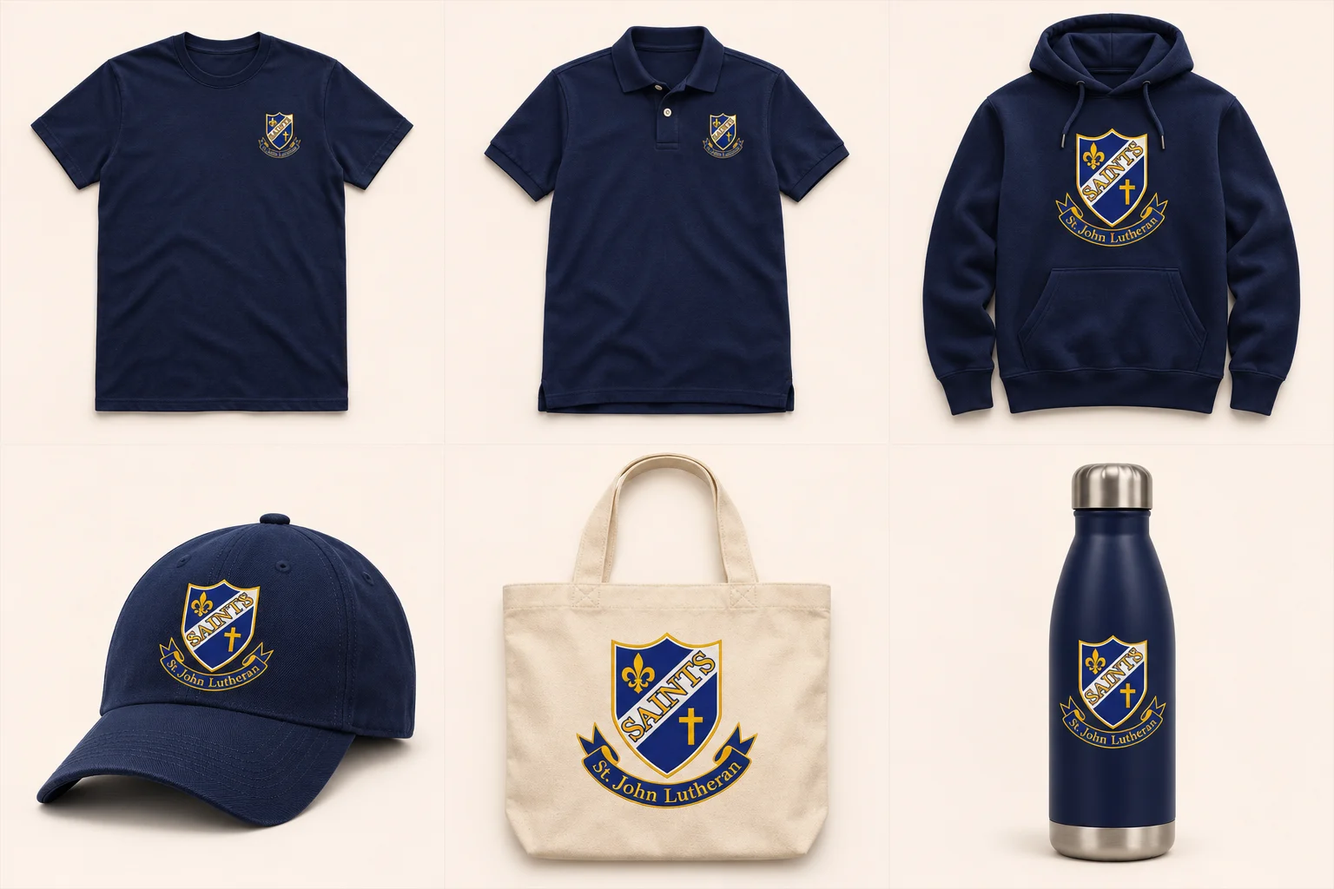
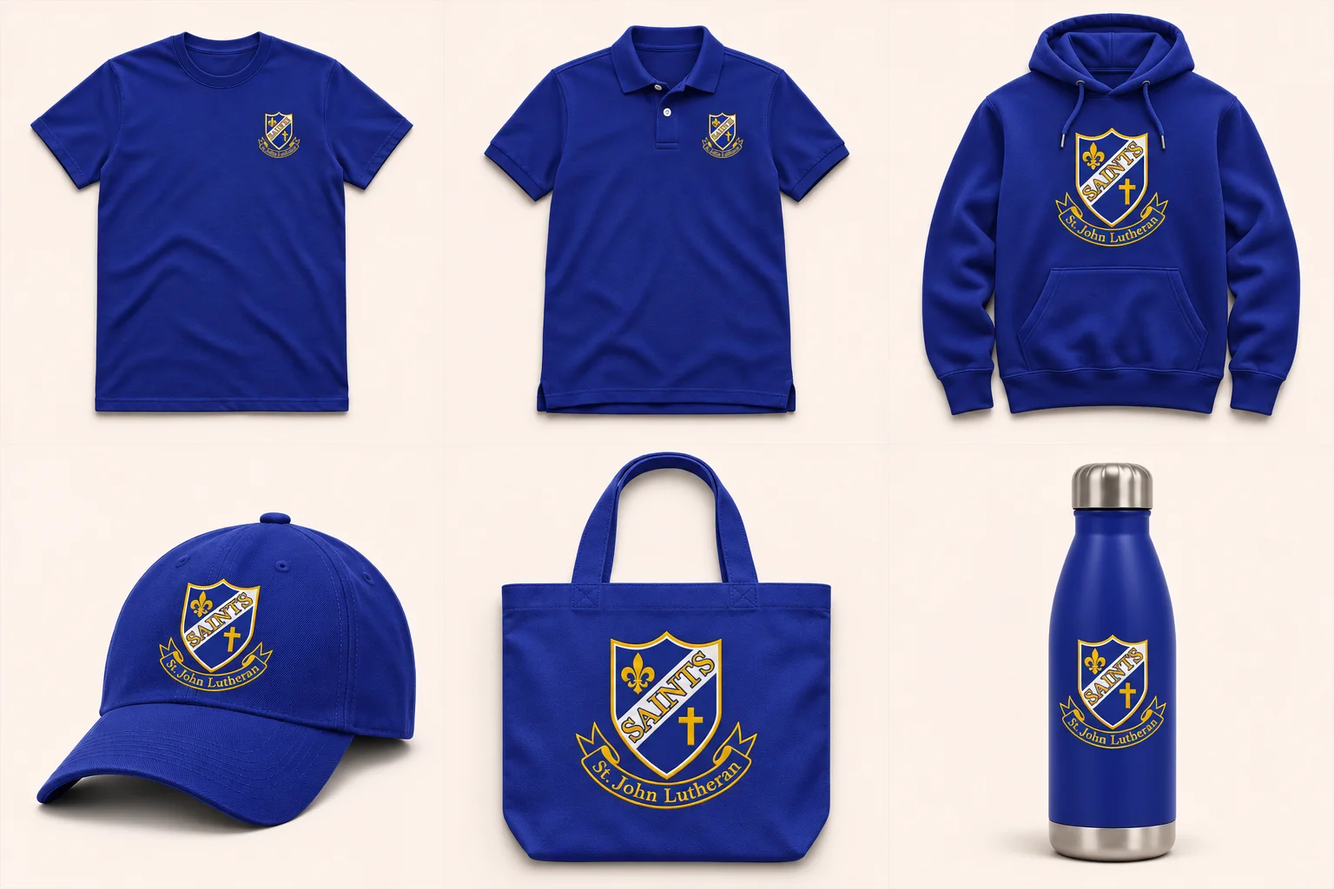
Correct royal school palette and senior design contest direction

diff --git a/app/store/store.module.css b/app/store/store.module.css
@@ -1,11 +1,13 @@
-.page{padding:15px 0 40px;color:#1c304e}.masthead{display:flex;align-items:center;justify-content:space-between;padding:12px 0 25px;gap:14px}.masthead>div{display:flex;align-items:center;gap:13px}.masthead img{height:49px;width:49px;object-fit:contain}.masthead>div>span{font-size:15px;letter-spacing:1.8px;font-weight:650}.masthead small{display:block;font-size:9px;letter-spacing:1.1px;color:#748094;margin-top:5px}.masthead>a{min-height:44px;display:flex;align-items:center;gap:8px;color:#203c68;text-decoration:none;font-size:13px}.masthead>a span{background:#e8edf4;display:grid;place-items:center;min-width:25px;height:25px;border-radius:50%;font-size:11px}
-.hero{display:grid;grid-template-columns:.85fr 1.25fr;background:#f4eee4;min-height:370px;overflow:hidden}.heroCopy{padding:47px 36px 34px;display:flex;align-items:flex-start;flex-direction:column;justify-content:center}.eyebrow{font-size:9px;letter-spacing:1.7px;font-weight:600;color:#876b30;display:block;margin:0 0 15px}.hero h1{font-family:var(--font-school)!important;font-size:45px!important;font-weight:500!important;line-height:1.08;letter-spacing:-1.7px;color:#19395d!important;margin:0 0 19px!important}.heroCopy p{font-size:14px;line-height:1.75;color:#657080;margin:0 0 24px}.heroCopy button{background:#1f3d67;border:1px solid #1f3d67;color:white;min-height:47px;padding:12px 20px;font:inherit;font-size:13px;font-weight:500;cursor:pointer}.badge{font-size:10px;color:#737a83;margin-top:15px}.heroImage{min-width:0;position:relative}.heroImage>img{position:absolute;width:100%;height:100%;object-fit:cover;object-position:58% center}.heroImage>span{position:absolute;bottom:20px;right:20px;font-size:9px;letter-spacing:2px;color:white;text-shadow:0 1px 5px #172437;background:#17243755;padding:8px}.notice{font-size:11px;line-height:1.7;color:#78818d;margin:13px 0 35px;max-width:800px}
+.page{padding:15px 0 40px;color:#1c304e}.masthead{display:flex;align-items:center;justify-content:space-between;padding:12px 0 25px;gap:14px}.masthead>div{display:flex;align-items:center;gap:13px}.masthead img{height:49px;width:49px;object-fit:contain}.masthead>div>span{font-size:15px;letter-spacing:1.8px;font-weight:650}.masthead small{display:block;font-size:9px;letter-spacing:1.1px;color:#748094;margin-top:5px}.masthead>a{min-height:44px;display:flex;align-items:center;gap:8px;color:#2a3695;text-decoration:none;font-size:13px}.masthead>a span{background:#e8edf4;display:grid;place-items:center;min-width:25px;height:25px;border-radius:50%;font-size:11px}
+.hero{display:grid;grid-template-columns:.85fr 1.25fr;background:#f4eee4;min-height:370px;overflow:hidden}.heroCopy{padding:47px 36px 34px;display:flex;align-items:flex-start;flex-direction:column;justify-content:center}.eyebrow{font-size:9px;letter-spacing:1.7px;font-weight:600;color:#876b30;display:block;margin:0 0 15px}.hero h1{font-family:var(--font-school)!important;font-size:45px!important;font-weight:500!important;line-height:1.08;letter-spacing:-1.7px;color:#2a3695!important;margin:0 0 19px!important}.heroCopy p{font-size:14px;line-height:1.75;color:#657080;margin:0 0 24px}.heroCopy button{background:#2a3695;border:1px solid #2a3695;color:white;min-height:47px;padding:12px 20px;font:inherit;font-size:13px;font-weight:500;cursor:pointer}.badge{font-size:10px;color:#737a83;margin-top:15px}.heroImage{min-width:0;position:relative}.heroImage>img{position:absolute;width:100%;height:100%;object-fit:cover;object-position:58% center}.heroImage>span{position:absolute;bottom:20px;right:20px;font-size:9px;letter-spacing:2px;color:white;text-shadow:0 1px 5px #172437;background:#17243755;padding:8px}.notice{font-size:11px;line-height:1.7;color:#78818d;margin:13px 0 35px;max-width:800px}
 .collectionLinks{display:grid;grid-template-columns:repeat(3,minmax(0,1fr));gap:19px;margin:0 0 49px}.collectionLinks>button{display:grid;grid-template-columns:84px minmax(0,1fr);padding:0;border:0;border-bottom:1px solid #dbe0e5;background:transparent;text-align:left;gap:14px;align-items:center;cursor:pointer;padding-bottom:17px;color:#223b5d}.collectionImage{width:84px;height:91px;overflow:hidden;border-radius:2px}.collectionImage figure{width:91px!important}.collectionImage figcaption{display:none}.collectionLinks>button>span{display:flex;flex-direction:column;gap:6px}.collectionLinks small{font-size:9px;text-transform:uppercase;letter-spacing:1px;color:#8b713d}.collectionLinks strong{font-size:14px;font-weight:600;line-height:1.35}.collectionLinks>button>span>span{font-size:11px;line-height:1.5;color:#778393}.collectionSection{scroll-margin-top:20px}.sectionHeading{display:flex;align-items:flex-end;justify-content:space-between;gap:15px;margin:0 0 23px}.sectionHeading h2{font-size:28px!important;font-weight:500!important;letter-spacing:-.7px;margin:0;color:#203b60}.sectionHeading .eyebrow{margin-bottom:10px}.sectionHeading>span{font-size:12px;color:#78869a;padding-bottom:4px}
-.toolbar{display:flex;align-items:center;justify-content:space-between;gap:20px;margin-bottom:23px}.categories{display:flex;gap:22px;flex-wrap:wrap}.categories button{min-height:44px;border:0;border-bottom:2px solid transparent;background:transparent;padding:10px 0;color:#738096;font-size:13px;cursor:pointer}.categories button[aria-pressed=true]{color:#1f3b63;border-bottom-color:#1f3b63;font-weight:600}.search{display:flex;flex-direction:column;gap:4px;max-width:240px;width:100%}.search>span{position:absolute;clip:rect(0,0,0,0);width:1px;height:1px;overflow:hidden}.search input{min-height:44px;width:100%;border:1px solid #d7dfe9;border-radius:2px;padding:10px 12px;font:inherit;font-size:12px;background:white;color:#203b60}.grid{display:grid;grid-template-columns:repeat(3,minmax(0,1fr));gap:31px 20px}.product{min-width:0}.productOpen{display:block;text-align:left;width:100%;background:transparent;border:0;padding:0;cursor:pointer;color:inherit}.art{aspect-ratio:1;background:#f8f2eb;overflow:hidden}.art figure{transition:transform .25s}.productOpen:hover .art figure{transform:scale(1.035)}.productInfo{padding:17px 0 0;position:relative}.collection{font-size:9px;letter-spacing:1.3px;text-transform:uppercase;color:#8e7544}.productInfo h3{font-size:17px!important;font-weight:500!important;line-height:1.4;color:#203c61!important;margin:7px 0 6px!important;letter-spacing:-.25px}.variantCount{font-size:12px;color:#7e8997;display:block}.view{display:inline-block;color:#203c68;font-size:12px;border-bottom:1px solid #c4cdd9;margin-top:14px;padding-bottom:4px}
-.favorites{margin:48px 0 0;padding:28px 30px;background:#eef2f7;display:grid;grid-template-columns:1fr 1.4fr;gap:35px;scroll-margin-top:20px}.favorites h2{font-size:23px!important;font-weight:500!important;margin:0 0 9px;color:#203b60}.favorites h2 span{font-size:17px;color:#7a8799}.favorites p{font-size:12px;line-height:1.65;color:#6f7d91;margin:0}.favorites .eyebrow{margin-bottom:10px}.emptyFavorites{padding:18px 0}.shortlistItem{padding:12px 0;border-bottom:1px solid #d8e1eb;display:grid;grid-template-columns:1fr auto;gap:5px}.shortlistItem strong{font-size:13px;font-weight:500}.shortlistItem>span{grid-column:1;font-size:11px;color:#748298}.shortlistItem button{grid-column:2;grid-row:1/3;background:transparent;border:0;text-decoration:underline;color:#4e6383;min-height:44px;font-size:12px;cursor:pointer}.uniform{display:flex;align-items:center;justify-content:space-between;gap:20px;padding:28px 0;border-bottom:1px solid #dce2e9}.uniform h2{font-size:17px!important;font-weight:500!important;margin:0 0 7px;color:#29415f}.uniform p{font-size:12px;color:#778496;margin:0}.uniform a{min-height:44px;display:inline-flex;align-items:center;font-size:12px;color:#2b4670}.empty{grid-column:1/-1;padding:30px;border:1px dashed #b8c5d7}.empty h2{font-size:20px}.empty button{min-height:44px;border:0;background:#203c68;color:white;padding:10px 18px;cursor:pointer}.page button:focus-visible,.page a:focus-visible,.page input:focus-visible{outline:3px solid #a88643;outline-offset:4px}
+.toolbar{display:flex;align-items:center;justify-content:space-between;gap:20px;margin-bottom:23px}.categories{display:flex;gap:22px;flex-wrap:wrap}.categories button{min-height:44px;border:0;border-bottom:2px solid transparent;background:transparent;padding:10px 0;color:#738096;font-size:13px;cursor:pointer}.categories button[aria-pressed=true]{color:#2a3695;border-bottom-color:#2a3695;font-weight:600}.search{display:flex;flex-direction:column;gap:4px;max-width:240px;width:100%}.search>span{position:absolute;clip:rect(0,0,0,0);width:1px;height:1px;overflow:hidden}.search input{min-height:44px;width:100%;border:1px solid #d7dfe9;border-radius:2px;padding:10px 12px;font:inherit;font-size:12px;background:white;color:#203b60}.grid{display:grid;grid-template-columns:repeat(3,minmax(0,1fr));gap:31px 20px}.product{min-width:0}.productOpen{display:block;text-align:left;width:100%;background:transparent;border:0;padding:0;cursor:pointer;color:inherit}.art{aspect-ratio:1;background:#f8f2eb;overflow:hidden}.art figure{transition:transform .25s}.productOpen:hover .art figure{transform:scale(1.035)}.productInfo{padding:17px 0 0;position:relative}.collection{font-size:9px;letter-spacing:1.3px;text-transform:uppercase;color:#8e7544}.productInfo h3{font-size:17px!important;font-weight:500!important;line-height:1.4;color:#203c61!important;margin:7px 0 6px!important;letter-spacing:-.25px}.variantCount{font-size:12px;color:#7e8997;display:block}.view{display:inline-block;color:#2a3695;font-size:12px;border-bottom:1px solid #c4cdd9;margin-top:14px;padding-bottom:4px}
+.favorites{margin:48px 0 0;padding:28px 30px;background:#eef2f7;display:grid;grid-template-columns:1fr 1.4fr;gap:35px;scroll-margin-top:20px}.favorites h2{font-size:23px!important;font-weight:500!important;margin:0 0 9px;color:#203b60}.favorites h2 span{font-size:17px;color:#7a8799}.favorites p{font-size:12px;line-height:1.65;color:#6f7d91;margin:0}.favorites .eyebrow{margin-bottom:10px}.emptyFavorites{padding:18px 0}.shortlistItem{padding:12px 0;border-bottom:1px solid #d8e1eb;display:grid;grid-template-columns:1fr auto;gap:5px}.shortlistItem strong{font-size:13px;font-weight:500}.shortlistItem>span{grid-column:1;font-size:11px;color:#748298}.shortlistItem button{grid-column:2;grid-row:1/3;background:transparent;border:0;text-decoration:underline;color:#4e6383;min-height:44px;font-size:12px;cursor:pointer}.uniform{display:flex;align-items:center;justify-content:space-between;gap:20px;padding:28px 0;border-bottom:1px solid #dce2e9}.uniform h2{font-size:17px!important;font-weight:500!important;margin:0 0 7px;color:#29415f}.uniform p{font-size:12px;color:#778496;margin:0}.uniform a{min-height:44px;display:inline-flex;align-items:center;font-size:12px;color:#2b4670}.empty{grid-column:1/-1;padding:30px;border:1px dashed #b8c5d7}.empty h2{font-size:20px}.empty button{min-height:44px;border:0;background:#2a3695;color:white;padding:10px 18px;cursor:pointer}.page button:focus-visible,.page a:focus-visible,.page input:focus-visible{outline:3px solid #a88643;outline-offset:4px}
 @media(max-width:1000px){.heroCopy{padding:35px 25px}.hero h1{font-size:37px!important}.collectionLinks{gap:15px}.collectionLinks>button{grid-template-columns:65px 1fr;gap:10px}.collectionImage{width:65px;height:78px}.collectionImage figure{width:78px!important}.collectionLinks strong{font-size:13px}}
 @media(max-width:650px){.page{padding-top:8px}.masthead{padding-bottom:19px}.masthead img{width:38px;height:38px}.masthead>div{gap:9px}.masthead>div>span{font-size:12px;letter-spacing:1.3px}.masthead small{font-size:8px;letter-spacing:.6px}.masthead>a{font-size:11px}.hero{display:flex;flex-direction:column-reverse;min-height:0}.heroImage{height:auto;aspect-ratio:1.5}.heroImage>img{position:relative;height:100%;display:block;object-position:center}.heroImage>span{display:none}.heroCopy{padding:27px 25px 29px}.hero h1{font-size:37px!important;letter-spacing:-1.2px}.hero h1 br{display:none}.heroCopy p{font-size:13px;line-height:1.6;margin-bottom:19px}.heroCopy p br{display:none}.heroCopy .eyebrow{margin-bottom:12px}.heroCopy button{width:100%}.badge{align-self:center}.notice{font-size:11px;margin:13px 0 27px}.collectionLinks{gap:13px;margin-bottom:34px;grid-template-columns:1fr}.collectionLinks>button{grid-template-columns:64px 1fr;padding-bottom:12px}.collectionImage{height:65px}.collectionImage figure{width:65px!important}.collectionLinks strong{font-size:15px}.collectionLinks>button>span{gap:4px}.collectionLinks>button>span>span{font-size:12px}.sectionHeading h2{font-size:24px!important}.sectionHeading>span{font-size:11px;white-space:nowrap}.toolbar{flex-direction:column-reverse;gap:12px;align-items:stretch}.search{max-width:none}.categories{gap:0;justify-content:space-between}.categories button{font-size:12px}.grid{grid-template-columns:repeat(2,minmax(0,1fr));gap:25px 13px}.productInfo{padding-top:12px}.productInfo h3{font-size:15px!important;line-height:1.4}.collection{font-size:8px}.variantCount{font-size:11px;line-height:1.5}.view{font-size:12px}.favorites{margin-top:32px;padding:23px;grid-template-columns:1fr;gap:13px}.favorites h2{font-size:22px!important}.uniform{align-items:flex-start;flex-direction:column;gap:9px;padding:24px 0}.uniform h2{font-size:16px!important}.uniform p{line-height:1.6}}
 @media(prefers-reduced-motion:reduce){.art figure{transition:none}.productOpen:hover .art figure{transform:none}}
 /* Collection filters wrap cleanly when a special collection is present. */
 .categories{flex-wrap:wrap}
 @media(max-width:650px){.categories{justify-content:flex-start;gap:0 14px}.categories button{min-height:44px}}
+
+.contest{display:grid;grid-template-columns:1fr 1fr;gap:28px;border-left:4px solid #edbc0d;background:#fff;padding:28px;margin:0 0 38px}.contest h2{font-size:26px!important;color:#2a3695!important;margin:0 0 8px}.contest p{font-size:15px;line-height:1.7;margin:0 0 8px}.contest span:not(.eyebrow){font-size:12px;color:#6f7d91}@media(max-width:650px){.contest{grid-template-columns:1fr;gap:10px;padding:22px}.contest h2{font-size:23px!important}}

diff --git a/app/store/store.tsx b/app/store/store.tsx
@@ -14,10 +14,11 @@ export default function Store(){
  <div className={styles.masthead}><div><img src="/stjohn-logo.png" alt="St. John Lutheran Saints"/><span>THE SAINTS STORE<small>ST. JOHN LUTHERAN · OCALA</small></span></div><a href="#favorites">Favorites <span>{saved.length}</span></a></div>
  <header className={styles.hero}><div className={styles.heroCopy}><span className={styles.eyebrow}>BLUE. GOLD. TOGETHER.</span><h1>A little more{' '}<br/>Saints spirit.</h1><p>For the school days, the sidelines,{' '}<br/>and everything in between.</p><button onClick={()=>browse('All')}>Explore the collection</button><span className={styles.badge}>An original collection preview</span></div><div className={styles.heroImage}><img src="/store/saints-editorial.webp" alt="Concept mockup of St. John Saints hoodie, tee, cap and tote"/><span>THE ST. JOHN COLLECTION</span></div></header>
  <p className={styles.notice}>Core Saints and team-gear concepts for year-round school spirit. Not available to order or approved as school uniforms. Images are illustrative mockups.</p>
- <section className={styles.collectionLinks} aria-label="Browse collections">{[{name:'Everyday',kind:'tee',text:'The everyday essentials',sub:'School spirit, simply done.'},{name:'Sideline',kind:'hoodie',text:'Meet you on the sidelines',sub:'Bring your Saints pride.'},{name:'Accessories',kind:'tote',text:'Take a little St. John along',sub:'For wherever the day takes you.'}].map(c=><button key={c.name} onClick={()=>browse(c.name)}><div className={styles.collectionImage}><ProductArt category={c.kind} name={c.text} color="#152d50"/></div><span><small>{c.name}</small><strong>{c.text}</strong><span>{c.sub}</span></span></button>)}</section>
- <section id="collection" className={styles.collectionSection}><div className={styles.sectionHeading}><div><span className={styles.eyebrow}>MADE FOR OUR COMMUNITY</span><h2>Find your Saints style.</h2></div><span>{items.length} designs</span></div>
+ <section className={styles.collectionLinks} aria-label="Browse collections">{[{name:'Everyday',kind:'tee',text:'The everyday essentials',sub:'School spirit, simply done.'},{name:'Sideline',kind:'hoodie',text:'Meet you on the sidelines',sub:'Bring your Saints pride.'},{name:'Accessories',kind:'tote',text:'Take a little St. John along',sub:'For wherever the day takes you.'}].map(c=><button key={c.name} onClick={()=>browse(c.name)}><div className={styles.collectionImage}><ProductArt category={c.kind} name={c.text} color="#2a3695"/></div><span><small>{c.name}</small><strong>{c.text}</strong><span>{c.sub}</span></span></button>)}</section>
+ <section className={styles.contest} aria-labelledby="senior-contest-title"><div><span className={styles.eyebrow}>COMING SOON</span><h2 id="senior-contest-title">Senior Design Contest</h2><p>Your class. Your design.</p></div><div><p>Open to all seniors, not just athletes. The winning design will be selected later for a special collection.</p><span>Entry details and selection dates to come.</span></div></section>
+ <section id="collection" className={styles.collectionSection}><div className={styles.sectionHeading}><div><span className={styles.eyebrow}>MADE FOR OUR COMMUNITY</span><h2>Find your Saints style.</h2></div><span>{items.length} {items.length===1?'design':'designs'}</span></div>
  <div className={styles.toolbar}><div className={styles.categories} role="group" aria-label="Store collection">{collections.map(c=><button key={c} type="button" aria-pressed={collection===c} onClick={()=>setCollection(c)}>{c}</button>)}</div><label className={styles.search}><span>Find an item</span><input type="search" value={query} onChange={e=>setQuery(e.target.value)} placeholder="Search the collection"/></label></div>
- <div className={styles.grid}>{items.map(p=><article key={p.id} className={styles.product}><button className={styles.productOpen} onClick={()=>setActive(p)} aria-label={`View ${p.name}`}><div className={styles.art}><ProductArt category={p.kind} color="#152d50" name={p.name}/></div><div className={styles.productInfo}><span className={styles.collection}>{p.collection}</span><h3>{p.name}</h3><span className={styles.variantCount}>{p.colors.length} colors · {p.sizes.length===1?'One size':'Youth & adult sizes'.replace('Youth & adult',p.sizes.some(s=>s.startsWith('Youth'))?'Youth & adult':'Adult')}</span><span className={styles.view}>View design</span></div></button></article>)}{!items.length&&<div className={styles.empty}><h2>No matching items</h2><button onClick={()=>{setQuery('');setCollection('All')}}>Show all items</button></div>}</div></section>
+ <div className={styles.grid}>{items.map(p=><article key={p.id} className={styles.product}><button className={styles.productOpen} onClick={()=>setActive(p)} aria-label={`View ${p.name}`}><div className={styles.art}><ProductArt category={p.kind} color="#2a3695" name={p.name}/></div><div className={styles.productInfo}><span className={styles.collection}>{p.collection}</span><h3>{p.name}</h3><span className={styles.variantCount}>{p.colors.length} {p.colors.length===1?'color':'colors'} · {p.sizes.length===1?'One size':'Youth & adult sizes'.replace('Youth & adult',p.sizes.some(s=>s.startsWith('Youth'))?'Youth & adult':'Adult')}</span><span className={styles.view}>View design</span></div></button></article>)}{!items.length&&<div className={styles.empty}><h2>No matching items</h2><button onClick={()=>{setQuery('');setCollection('All')}}>Show all items</button></div>}</div></section>
  <section id="favorites" className={styles.favorites}><div><span className={styles.eyebrow}>YOUR COLLECTION</span><h2>Favorites <span aria-live="polite">({saved.length})</span></h2><p>Saved for this visit. Nothing is ordered or submitted.</p></div><div>{saved.length?saved.map((s,i)=><div className={styles.shortlistItem} key={`${s.id}-${s.color}-${s.size}`}><strong>{products.find(p=>p.id===s.id)?.name}</strong><span>{s.color} · {s.size}</span><button aria-label={`Remove ${products.find(p=>p.id===s.id)?.name}`} onClick={()=>setSaved(saved.filter((_,index)=>index!==i))}>Remove</button></div>):<p className={styles.emptyFavorites}>See something you love? Open a design, choose your color and size, and save it here.</p>}</div></section>
  <div className={styles.uniform}><div><h2>Looking for school-day dress guidance?</h2><p>Spirit wear and approved school uniforms are different.</p></div><Link href="/dress-code">View school dress code</Link></div>
  {active&&<ProductDetail key={active.id} product={active} onClose={()=>setActive(null)} onSave={selection=>setSaved(current=>current.some(s=>s.id===selection.id&&s.color===selection.color&&s.size===selection.size)?current:[...current,selection])}/>}

diff --git a/app/store/detail.module.css b/app/store/detail.module.css
@@ -1,1 +1,1 @@
-.dialog{width:min(960px,calc(100vw - 32px));max-height:calc(100dvh - 32px);padding:0;border:0;border-radius:18px;color:var(--ink,#172d49);background:#fff;box-shadow:0 30px 90px #0d213e55}.dialog::backdrop{background:#07182cb3;backdrop-filter:blur(5px)}.content{display:grid;grid-template-columns:1fr 1fr;position:relative}.close{position:absolute;top:12px;right:12px;width:44px;height:44px;z-index:2;border:1px solid #d9e1ec;border-radius:50%;background:#fff;font-size:28px;color:#183553;cursor:pointer}.art{background:#eef1f5;display:flex;align-items:center;padding:24px;min-width:0}.art svg{width:100%;height:auto}.info{padding:48px 30px 28px}.eyebrow{font-size:11px;letter-spacing:.08em;text-transform:uppercase;color:#64748b}.info h2{font-size:28px;line-height:1.2;margin:14px 0}.info p{line-height:1.6;font-size:14px;color:#5a687b}.headline{font-size:17px!important;color:#233e62!important}.colors,.sizes{border:0;padding:0;margin:24px 0}.colors legend,.sizes legend{font-size:13px;font-weight:600;margin-bottom:10px}.colors button{width:44px;height:44px;border:1px solid #b7c3d2;border-radius:50%;margin:0 9px 4px 0;cursor:pointer}.colors button[aria-pressed=true]{outline:2px solid #233f75;outline-offset:3px}.sizes button{min-height:44px;min-width:52px;padding:8px 10px;margin:0 6px 7px 0;border:1px solid #c9d2df;background:#fff;border-radius:6px;cursor:pointer}.sizes button[aria-pressed=true]{background:#17375d;color:#fff;border-color:#17375d}.save{width:100%;min-height:48px;border:0;border-radius:7px;background:#17375d;color:#fff;font-weight:600;cursor:pointer}.save:disabled{background:#d9e0e9;color:#4a5c73;cursor:default}.status{font-size:12px!important;min-height:20px}.design{border-top:1px solid #e1e6ed;padding-top:16px;margin-top:20px}.design h3{font-size:15px}.design ul{padding-left:18px;font-size:13px;line-height:1.8;color:#52647c}.disclosure{border-top:1px solid #e1e6ed;padding:16px 0 0}.disclosure summary{cursor:pointer;font-size:13px;font-weight:600;min-height:32px}.dialog button:focus-visible,.disclosure summary:focus-visible{outline:3px solid #edbc0d;outline-offset:3px}@media(max-width:650px){.dialog{width:calc(100vw - 16px);max-height:calc(100dvh - 16px);border-radius:12px}.content{display:block}.art{padding:22px;max-height:290px}.art svg{height:240px}.info{padding:25px 22px}.info h2{font-size:25px}}
+.dialog{width:min(960px,calc(100vw - 32px));max-height:calc(100dvh - 32px);padding:0;border:0;border-radius:18px;color:var(--ink,#172d49);background:#fff;box-shadow:0 30px 90px #0d213e55}.dialog::backdrop{background:#07182cb3;backdrop-filter:blur(5px)}.content{display:grid;grid-template-columns:1fr 1fr;position:relative}.close{position:absolute;top:12px;right:12px;width:44px;height:44px;z-index:2;border:1px solid #d9e1ec;border-radius:50%;background:#fff;font-size:28px;color:#183553;cursor:pointer}.art{background:#eef1f5;display:flex;align-items:center;padding:24px;min-width:0}.art svg{width:100%;height:auto}.info{padding:48px 30px 28px}.eyebrow{font-size:11px;letter-spacing:.08em;text-transform:uppercase;color:#64748b}.info h2{font-size:28px;line-height:1.2;margin:14px 0}.info p{line-height:1.6;font-size:14px;color:#5a687b}.headline{font-size:17px!important;color:#233e62!important}.colors,.sizes{border:0;padding:0;margin:24px 0}.colors legend,.sizes legend{font-size:13px;font-weight:600;margin-bottom:10px}.colors button{width:44px;height:44px;border:1px solid #b7c3d2;border-radius:50%;margin:0 9px 4px 0;cursor:pointer}.colors button[aria-pressed=true]{outline:2px solid #2a3695;outline-offset:3px}.sizes button{min-height:44px;min-width:52px;padding:8px 10px;margin:0 6px 7px 0;border:1px solid #c9d2df;background:#fff;border-radius:6px;cursor:pointer}.sizes button[aria-pressed=true]{background:#2a3695;color:#fff;border-color:#2a3695}.save{width:100%;min-height:48px;border:0;border-radius:7px;background:#2a3695;color:#fff;font-weight:600;cursor:pointer}.save:disabled{background:#d9e0e9;color:#4a5c73;cursor:default}.status{font-size:12px!important;min-height:20px}.design{border-top:1px solid #e1e6ed;padding-top:16px;margin-top:20px}.design h3{font-size:15px}.design ul{padding-left:18px;font-size:13px;line-height:1.8;color:#52647c}.disclosure{border-top:1px solid #e1e6ed;padding:16px 0 0}.disclosure summary{cursor:pointer;font-size:13px;font-weight:600;min-height:32px}.dialog button:focus-visible,.disclosure summary:focus-visible{outline:3px solid #edbc0d;outline-offset:3px}@media(max-width:650px){.dialog{width:calc(100vw - 16px);max-height:calc(100dvh - 16px);border-radius:12px}.content{display:block}.art{padding:22px;max-height:290px}.art svg{height:240px}.info{padding:25px 22px}.info h2{font-size:25px}}

diff --git a/app/store/product-art.tsx b/app/store/product-art.tsx
@@ -1,6 +1,6 @@
 /** Generated merchandise concept mockups based on the authentic /stjohn-logo.png crest. */
-type Props={kind?:'tee'|'polo'|'hoodie'|'cap'|'tote'|'bottle'|'senior-crewneck';category?:string;color:string;name:string};
+type Props={kind?:'tee'|'polo'|'hoodie'|'cap'|'tote'|'bottle';category?:string;color:string;name:string};
 export default function ProductArt({kind,category,name}:Props){
  const type=kind||category||'tee';const positions:Record<string,string>={tee:'0% 0%',polo:'50% 0%',hoodie:'100% 0%',cap:'0% 100%',tote:'50% 100%',bottle:'100% 100%'};
- return <figure style={{margin:0,width:'100%',position:'relative'}}><div role="img" aria-label={`${name} concept illustration. ${type==='tote'?'Natural':'Navy'} design shown.`} style={{width:'100%',aspectRatio:'1',backgroundImage:type==='senior-crewneck'?'url(/store/senior-athlete.webp)':'url(/store/saints-collection.webp)',backgroundSize:type==='senior-crewneck'?'cover':'300% 200%',backgroundPosition:positions[type]||positions.tee}}/><figcaption style={{position:'absolute',bottom:10,left:12,color:'#536175',fontSize:10,background:'#ffffffd9',padding:'3px 6px',borderRadius:3}}>{type==='tote'?'Natural':'Navy'} concept shown</figcaption></figure>;
+ return <figure style={{margin:0,width:'100%',position:'relative'}}><div role="img" aria-label={`${name} concept illustration. Royal design shown.`} style={{width:'100%',aspectRatio:'1',backgroundImage:'url(/store/saints-collection.webp)',backgroundSize:'300% 200%',backgroundPosition:positions[type]||positions.tee}}/><figcaption style={{position:'absolute',bottom:10,left:12,color:'#536175',fontSize:10,background:'#ffffffd9',padding:'3px 6px',borderRadius:3}}>Royal concept shown</figcaption></figure>;
 }

diff --git a/docs/store-preview.md b/docs/store-preview.md
@@ -8,3 +8,9 @@ Working: search, collection filters, color/size selection, duplicate-safe in-pag
 Each concept has its own design highlights and use context. A native modal supports keyboard containment, Escape, backdrop close and focus return. Saving requires an explicit size selection; color changes update the illustrated concept. Materials, fit, actual measurements and availability remain unconfirmed and are not invented. Product options are concept planning options, not manufacturer specifications.
 
 Senior Athlete Crewneck is a commemorative limited-edition design concept, not a released limited-stock offer. No year, student name, team membership, price, quantity or purchase availability is invented. It is separated from the core Everyday/Sideline/Accessories collection. Hero text retains literal spaces around responsive-hidden line breaks.
+
+## Color correction
+Royal #2a3695 and gold #edbc0d are sampled from the authentic supplied school crest, not an invented brand guide. The prior navy garment direction was removed. All selectable product colors now match the royal-blue concept imagery; unpictured white/natural variants are not offered. Shop controls use royal blue. The rest of the parent portal palette is unchanged.
+
+### Superseding senior direction
+Kyle clarified the special collection is a Senior Design Contest open to all seniors. Removed the predetermined Senior Athlete product from the catalog. The store now presents a coming-soon contest section; no winning design, actual entry form, deadlines, prizes or selection rules are invented. Earlier athlete concept notes above are historical and superseded.

diff --git a/docs/visual-assets.md b/docs/visual-assets.md
@@ -15,3 +15,6 @@ The owner supplied three mobile screenshots of the official website and one of t
 - `public/store/saints-editorial.webp` and `saints-collection.webp`: original AI-generated concept mockups using the existing authentic St. John crest as a visual reference, created November 14, 2026. Not actual product photographs, inventory, approved uniforms or school-approved designs. Rendered interface clearly identifies concepts; navy/natural images are not claimed to match alternative selected colors.
 - Product images use CSS viewport positions on the original six-panel image. No student likenesses or third-party merchandise photos.
 - `public/store/senior-athlete.webp`: original generated navy senior-athlete crewneck front/back concept, authentic crest reference on front, cream/gold collegiate lettering on back. No year, named athlete, real edition quantity or availability claim. November 14, 2026.
+
+### Store palette correction
+Dominant opaque colors sampled from the school's original `stjohn-logo.png` are blue **#2a3695** (239,929 pixels) and gold **#edbc0d** (69,849 pixels). These are verified asset colors, not a claimed published brand manual. November 14: core store mockups were regenerated in royal blue/gold, replacing navy/natural concepts. All displayed merchandise now has only the pictured Royal variant. Senior-athlete artwork was removed from the active store following clarification that the senior item is a design contest open to all seniors, with winning design undecided.
